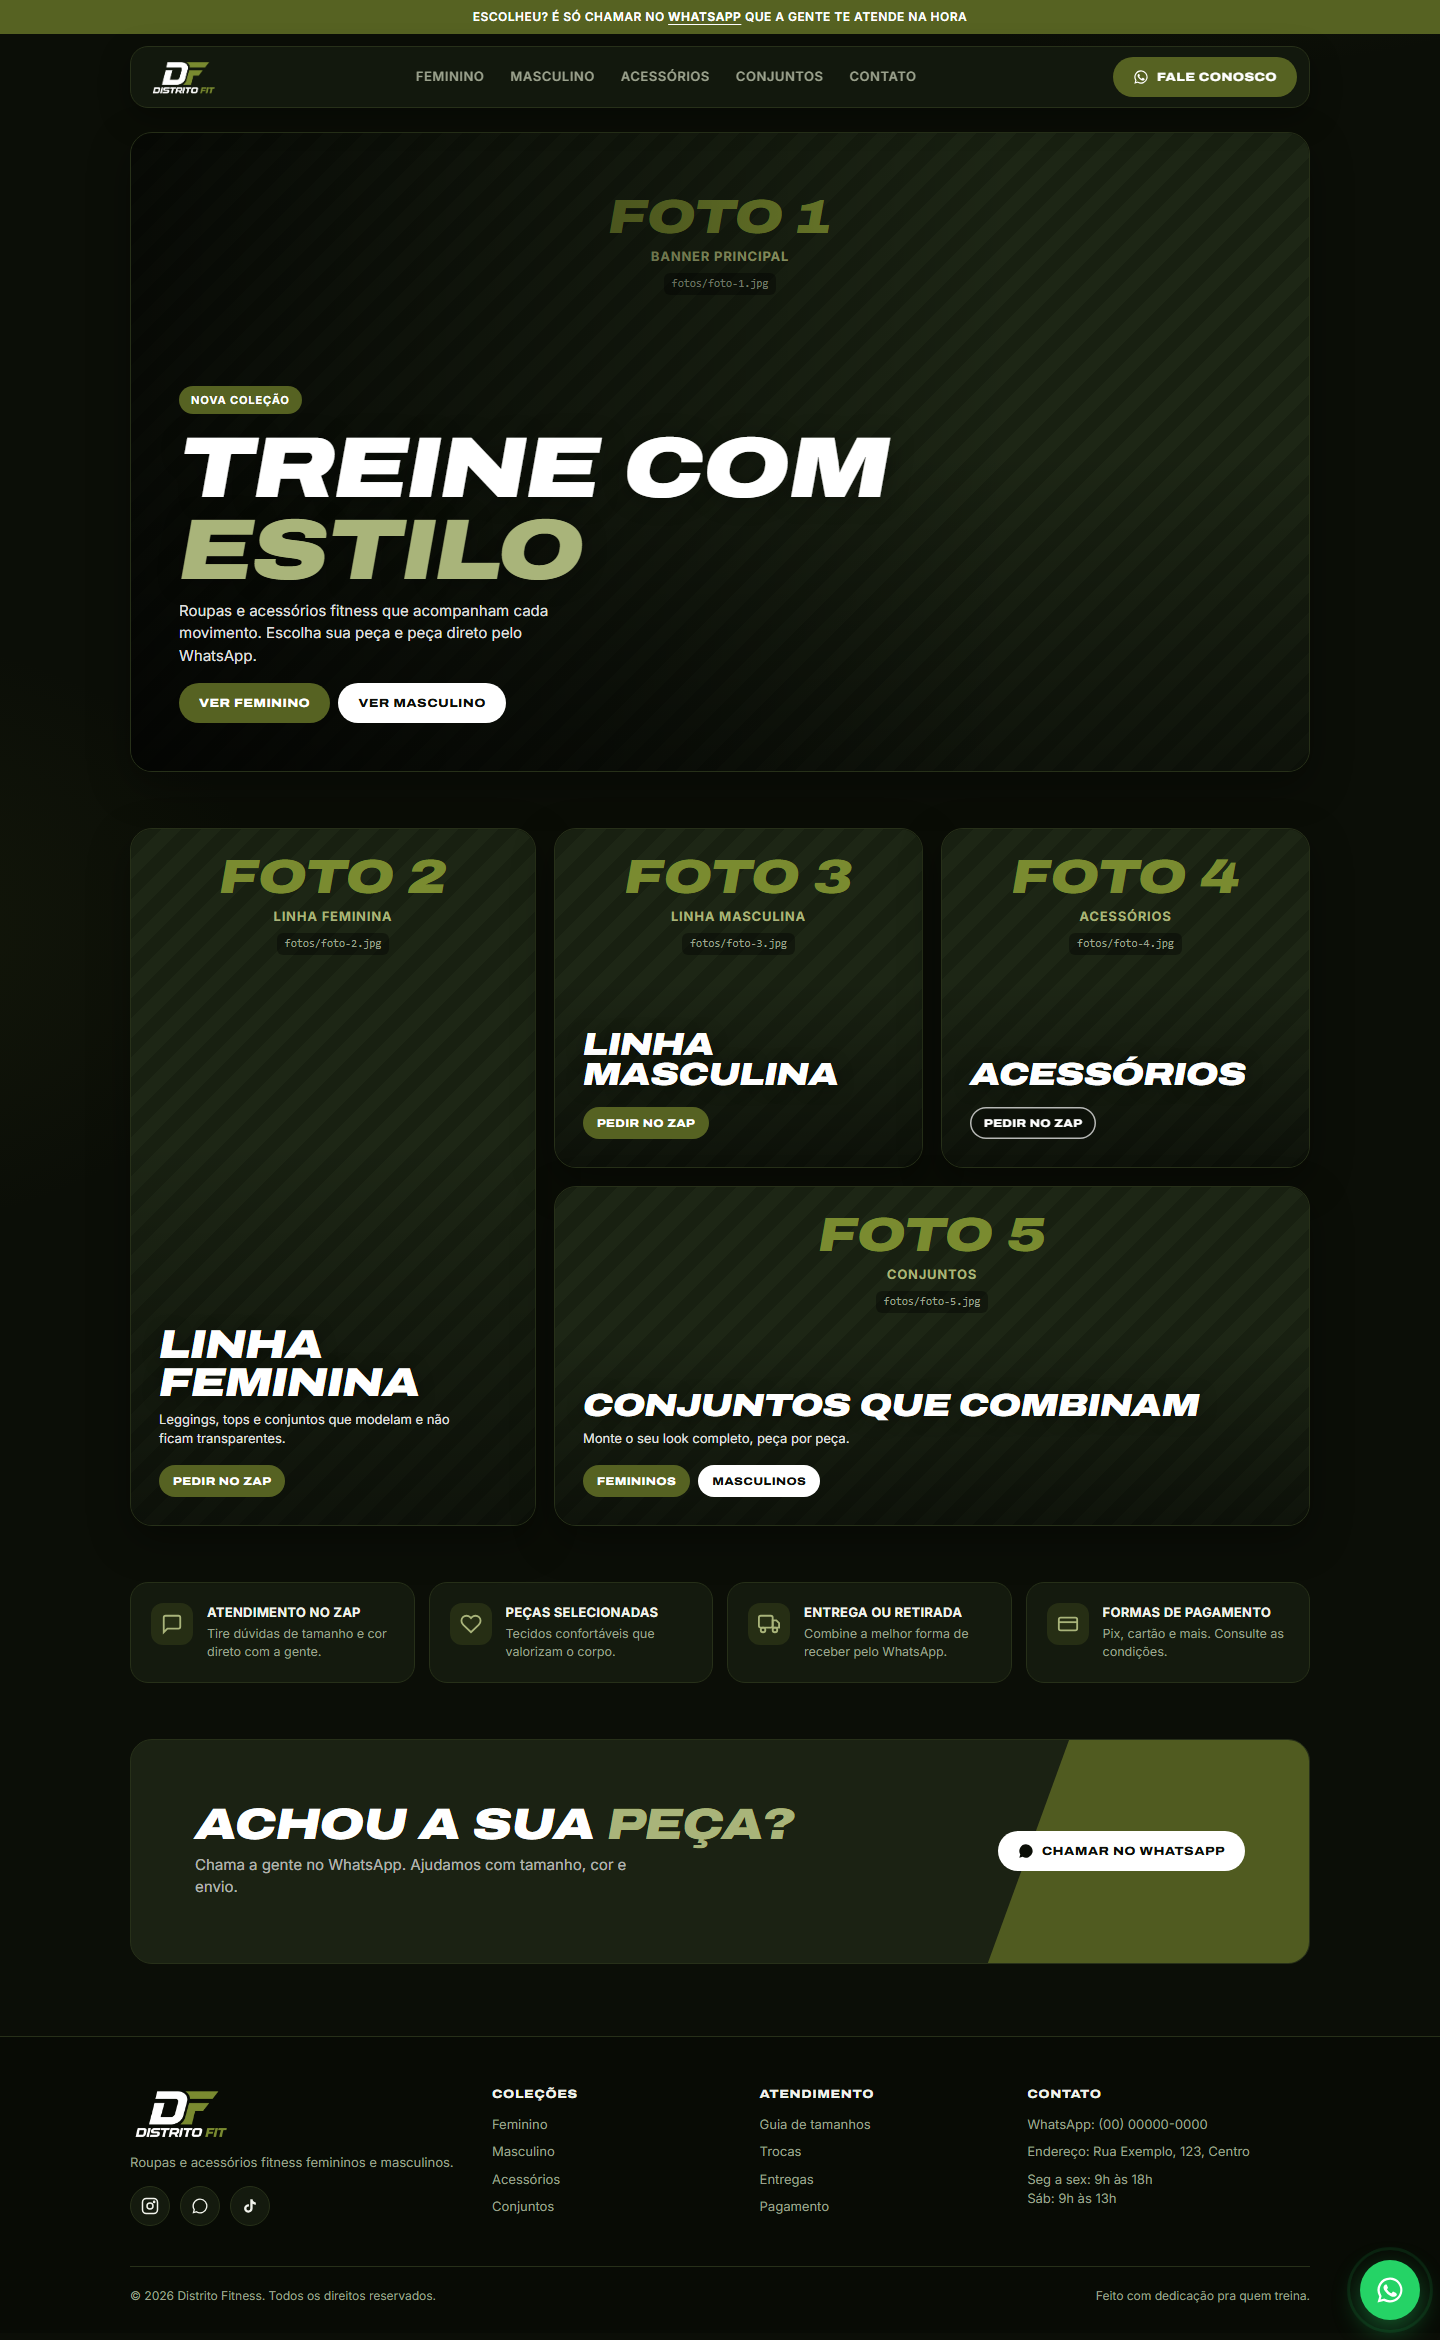
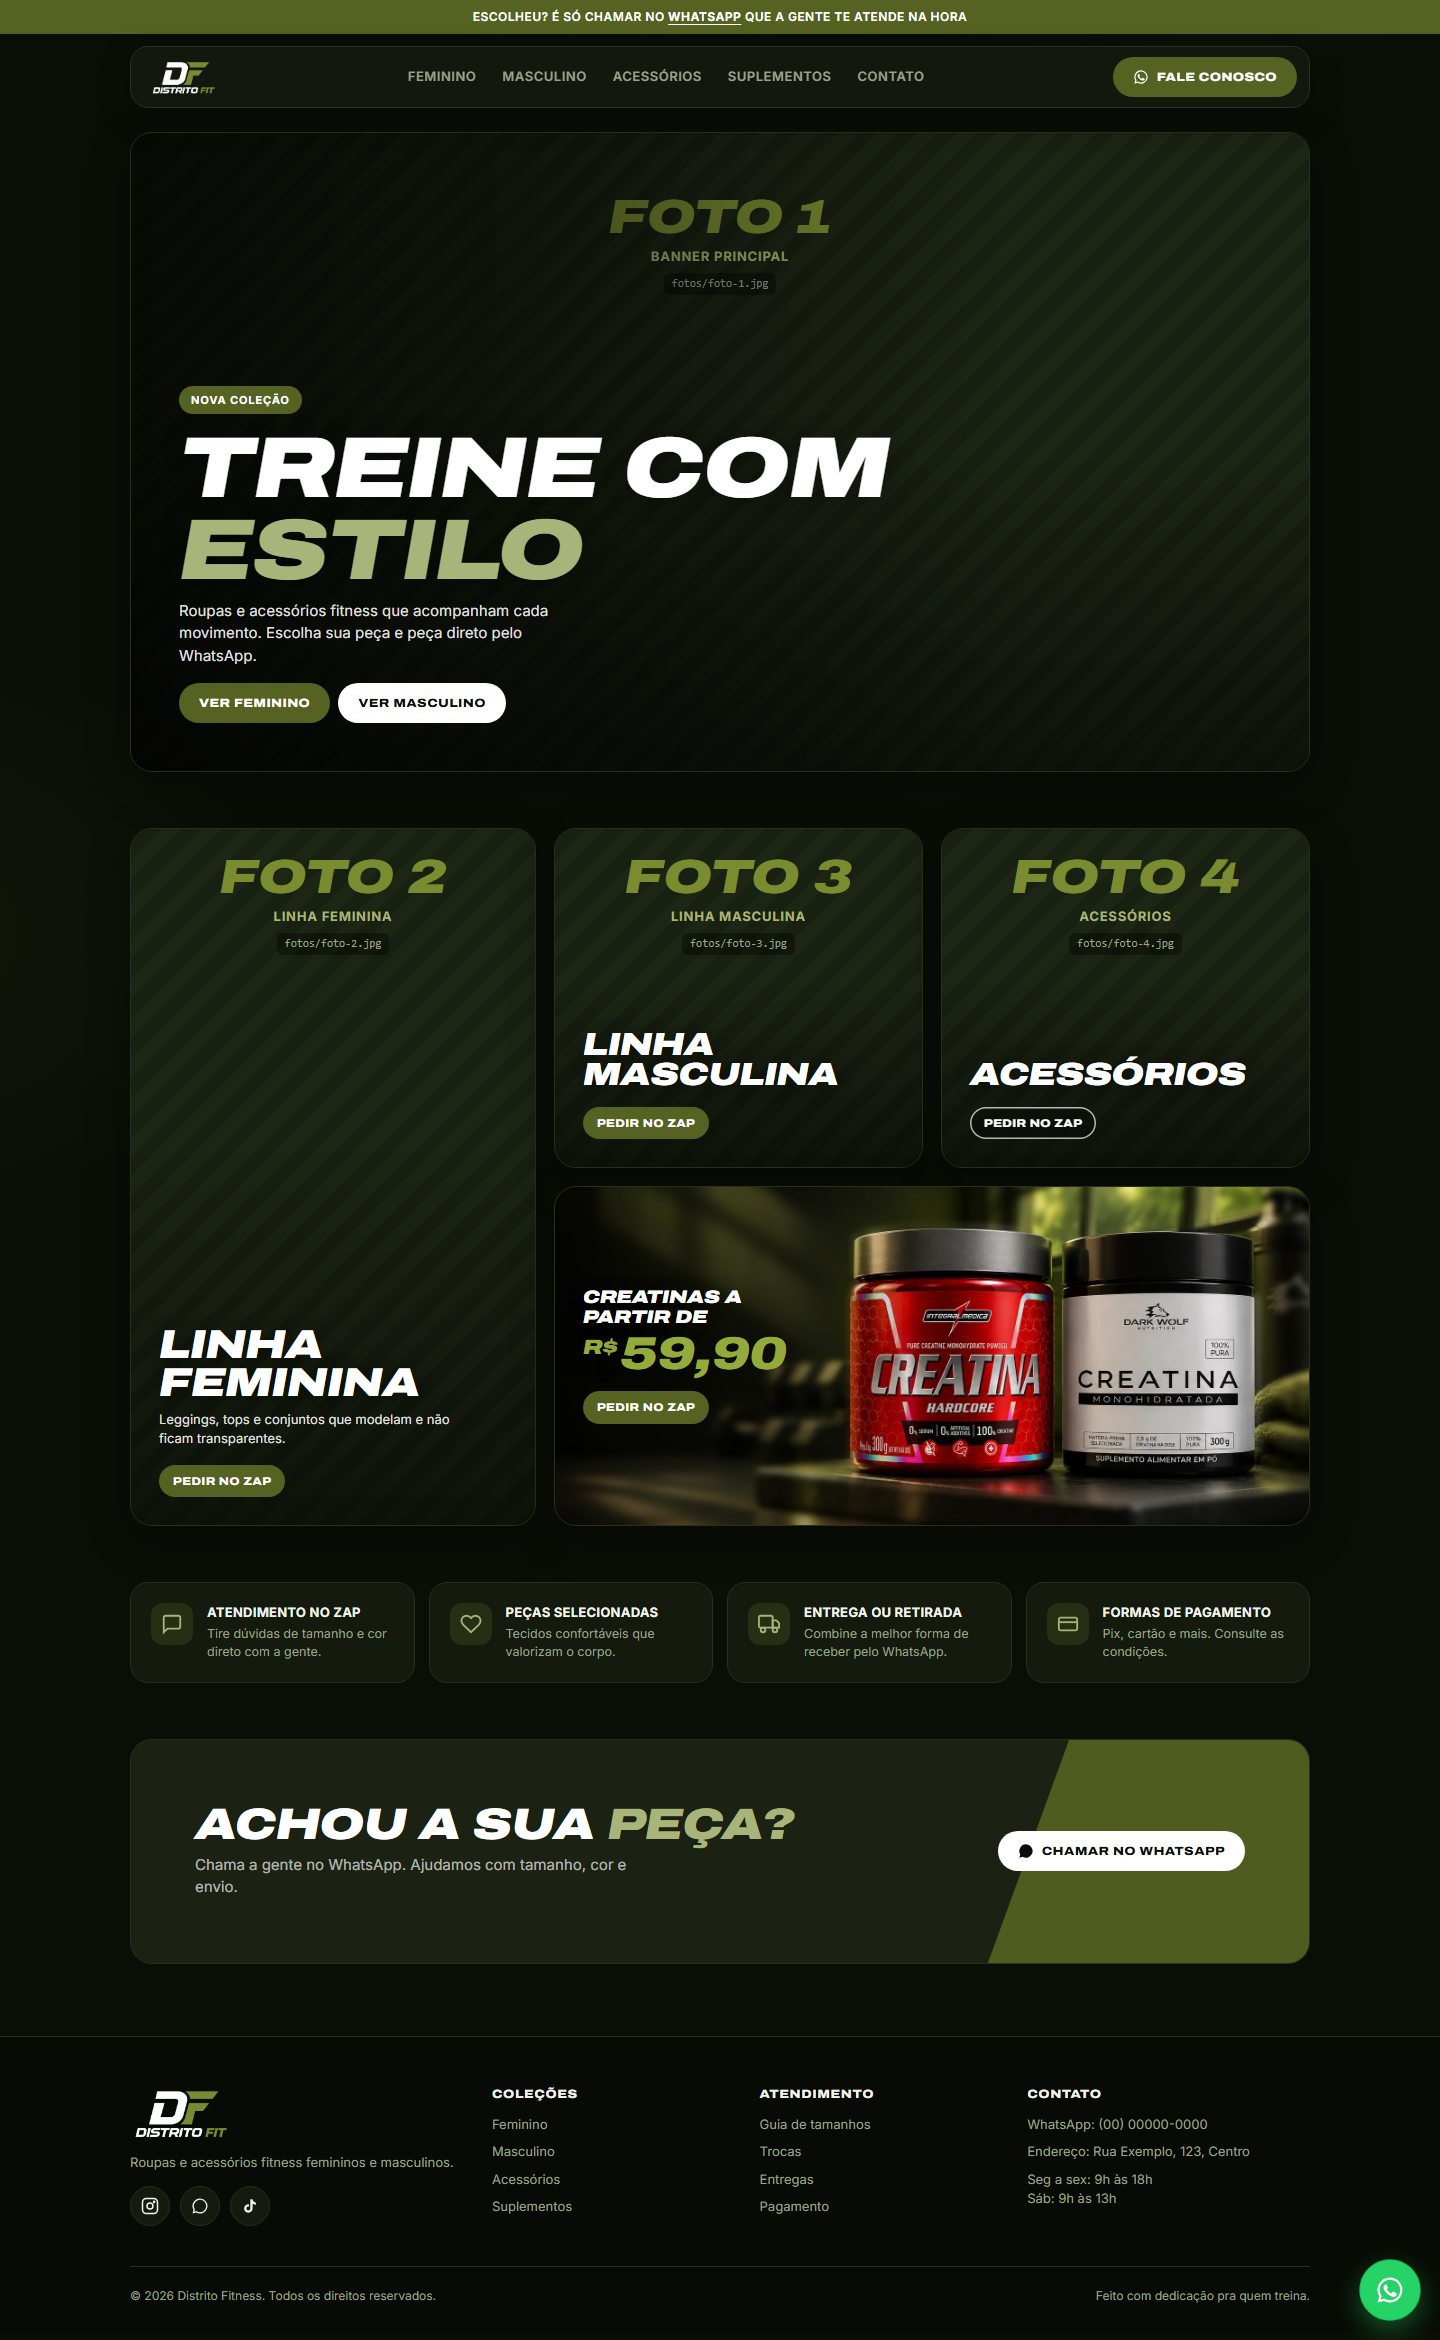
Foto 5 vira oferta de creatinas (fundo desfocado + preço em destaque)

Changed region(s): [[0.375, 0.4991, 0.9062, 0.6551], [0.3438, 0.9359, 0.375, 0.9671]]

diff --git a/index.html b/index.html
@@ -125,6 +125,23 @@ a{color:inherit;text-decoration:none}
 .mosaico .alto{grid-row:span 2}
 .mosaico .largo2{grid-column:span 2}
 
+/* ===== Card de oferta (Foto 5: suplementos) ===== */
+.card-oferta{align-items:center}
+.card-oferta img{object-position:center 45%}
+.card-oferta::after{background:linear-gradient(90deg,rgba(0,0,0,.72) 0%,rgba(0,0,0,.45) 30%,rgba(0,0,0,0) 48%)}
+.card-oferta .conteudo{width:auto;max-width:37%;padding-right:0}
+.mosaico .card-oferta h3.oferta{display:flex;flex-direction:column;gap:6px;font-size:inherit;overflow-wrap:normal}
+.oferta-chamada{color:#fff;font-size:clamp(14px,1.3vw,18px);line-height:1.1}
+.oferta-preco{color:#94AB3C;font-size:clamp(32px,3.3vw,46px);line-height:.9;white-space:nowrap;text-shadow:0 2px 24px rgba(0,0,0,.5)}
+.oferta-preco small{font-size:.45em;margin-right:.12em;vertical-align:.7em}
+@media (max-width:760px){
+  .card-oferta{align-items:flex-end}
+  .mosaico .card-oferta{min-height:440px;background:#0A0C07}
+  .card-oferta img{height:66%;object-position:84% center}
+  .card-oferta::after{background:linear-gradient(180deg,rgba(10,12,7,0) 46%,#0A0C07 66%)}
+  .card-oferta .conteudo{max-width:none}
+}
+
 /* ===== Faixa de diferenciais ===== */
 .diferenciais{display:grid;grid-template-columns:repeat(4,1fr);gap:14px}
 .dif{background:var(--card);border:1px solid var(--borda);border-radius:18px;padding:20px;display:flex;gap:14px;align-items:flex-start;transition:border-color .2s,transform .2s}
@@ -212,7 +229,7 @@ a{color:inherit;text-decoration:none}
       <a href="#feminino">Feminino</a>
       <a href="#masculino">Masculino</a>
       <a href="#acessorios">Acessórios</a>
-      <a href="#conjuntos">Conjuntos</a>
+      <a href="#suplementos">Suplementos</a>
       <a href="#contato">Contato</a>
     </nav>
     <div class="menu-acoes">
@@ -267,14 +284,15 @@ a{color:inherit;text-decoration:none}
         <div class="botoes"><a href="#" class="pilula pequena contorno" data-zap="Olá! Quero ver os acessórios da Distrito Fitness.">Pedir no Zap</a></div>
       </div>
     </div>
-    <div class="card-foto largo2 revelar" id="conjuntos">
-      <img src="fotos/foto-5.jpg" alt="Foto 5 · Conjuntos">
+    <div class="card-foto largo2 card-oferta revelar" id="suplementos">
+      <img src="fotos/foto-5.jpg" alt="Foto 5 · Suplementos">
       <div class="conteudo">
-        <h3 class="titulo">Conjuntos que combinam</h3>
-        <p>Monte o seu look completo, peça por peça.</p>
+        <h3 class="titulo oferta">
+          <span class="oferta-chamada">Creatinas a partir de</span>
+          <span class="oferta-preco"><small>R$</small>59,90</span>
+        </h3>
         <div class="botoes">
-          <a href="#" class="pilula pequena" data-zap="Olá! Quero ver os conjuntos femininos da Distrito Fitness.">Femininos</a>
-          <a href="#" class="pilula pequena branca" data-zap="Olá! Quero ver os conjuntos masculinos da Distrito Fitness.">Masculinos</a>
+          <a href="#" class="pilula pequena" data-zap="Olá! Vi no site as creatinas a partir de R$ 59,90. Quais vocês têm disponíveis?">Pedir no Zap</a>
         </div>
       </div>
     </div>
@@ -322,7 +340,7 @@ a{color:inherit;text-decoration:none}
           <li><a href="#feminino">Feminino</a></li>
           <li><a href="#masculino">Masculino</a></li>
           <li><a href="#acessorios">Acessórios</a></li>
-          <li><a href="#conjuntos">Conjuntos</a></li>
+          <li><a href="#suplementos">Suplementos</a></li>
         </ul>
       </div>
       <div>
